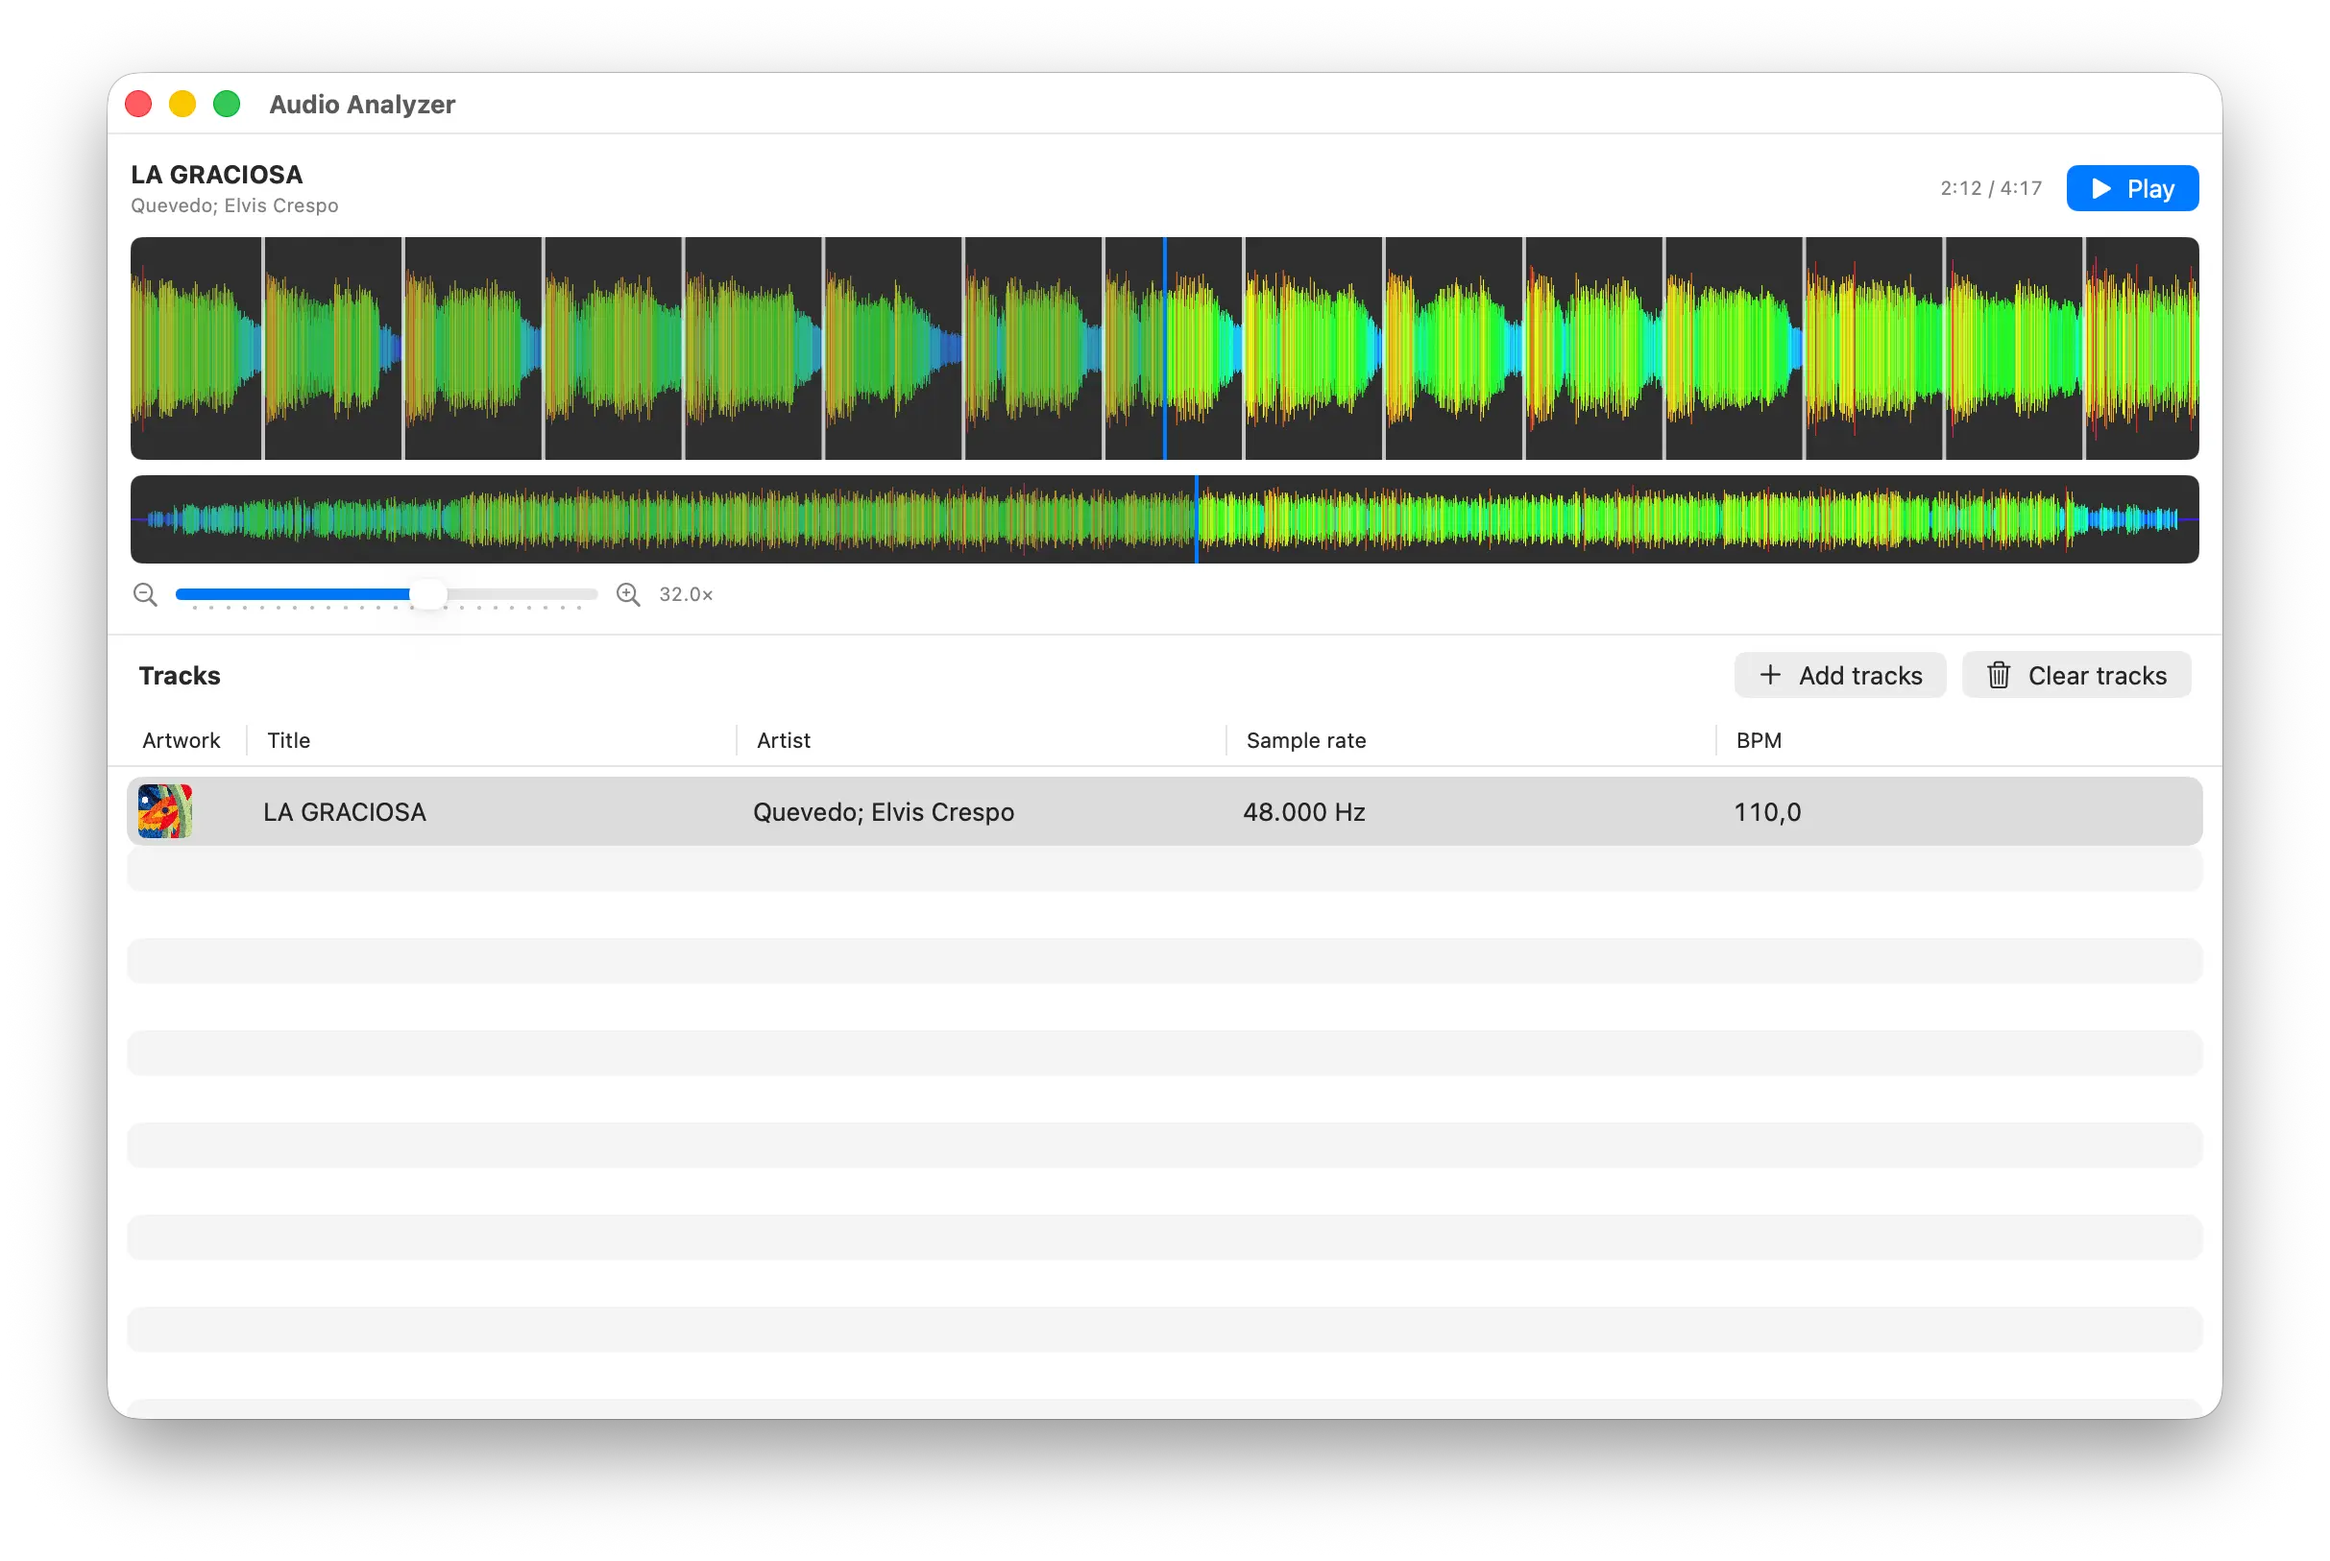
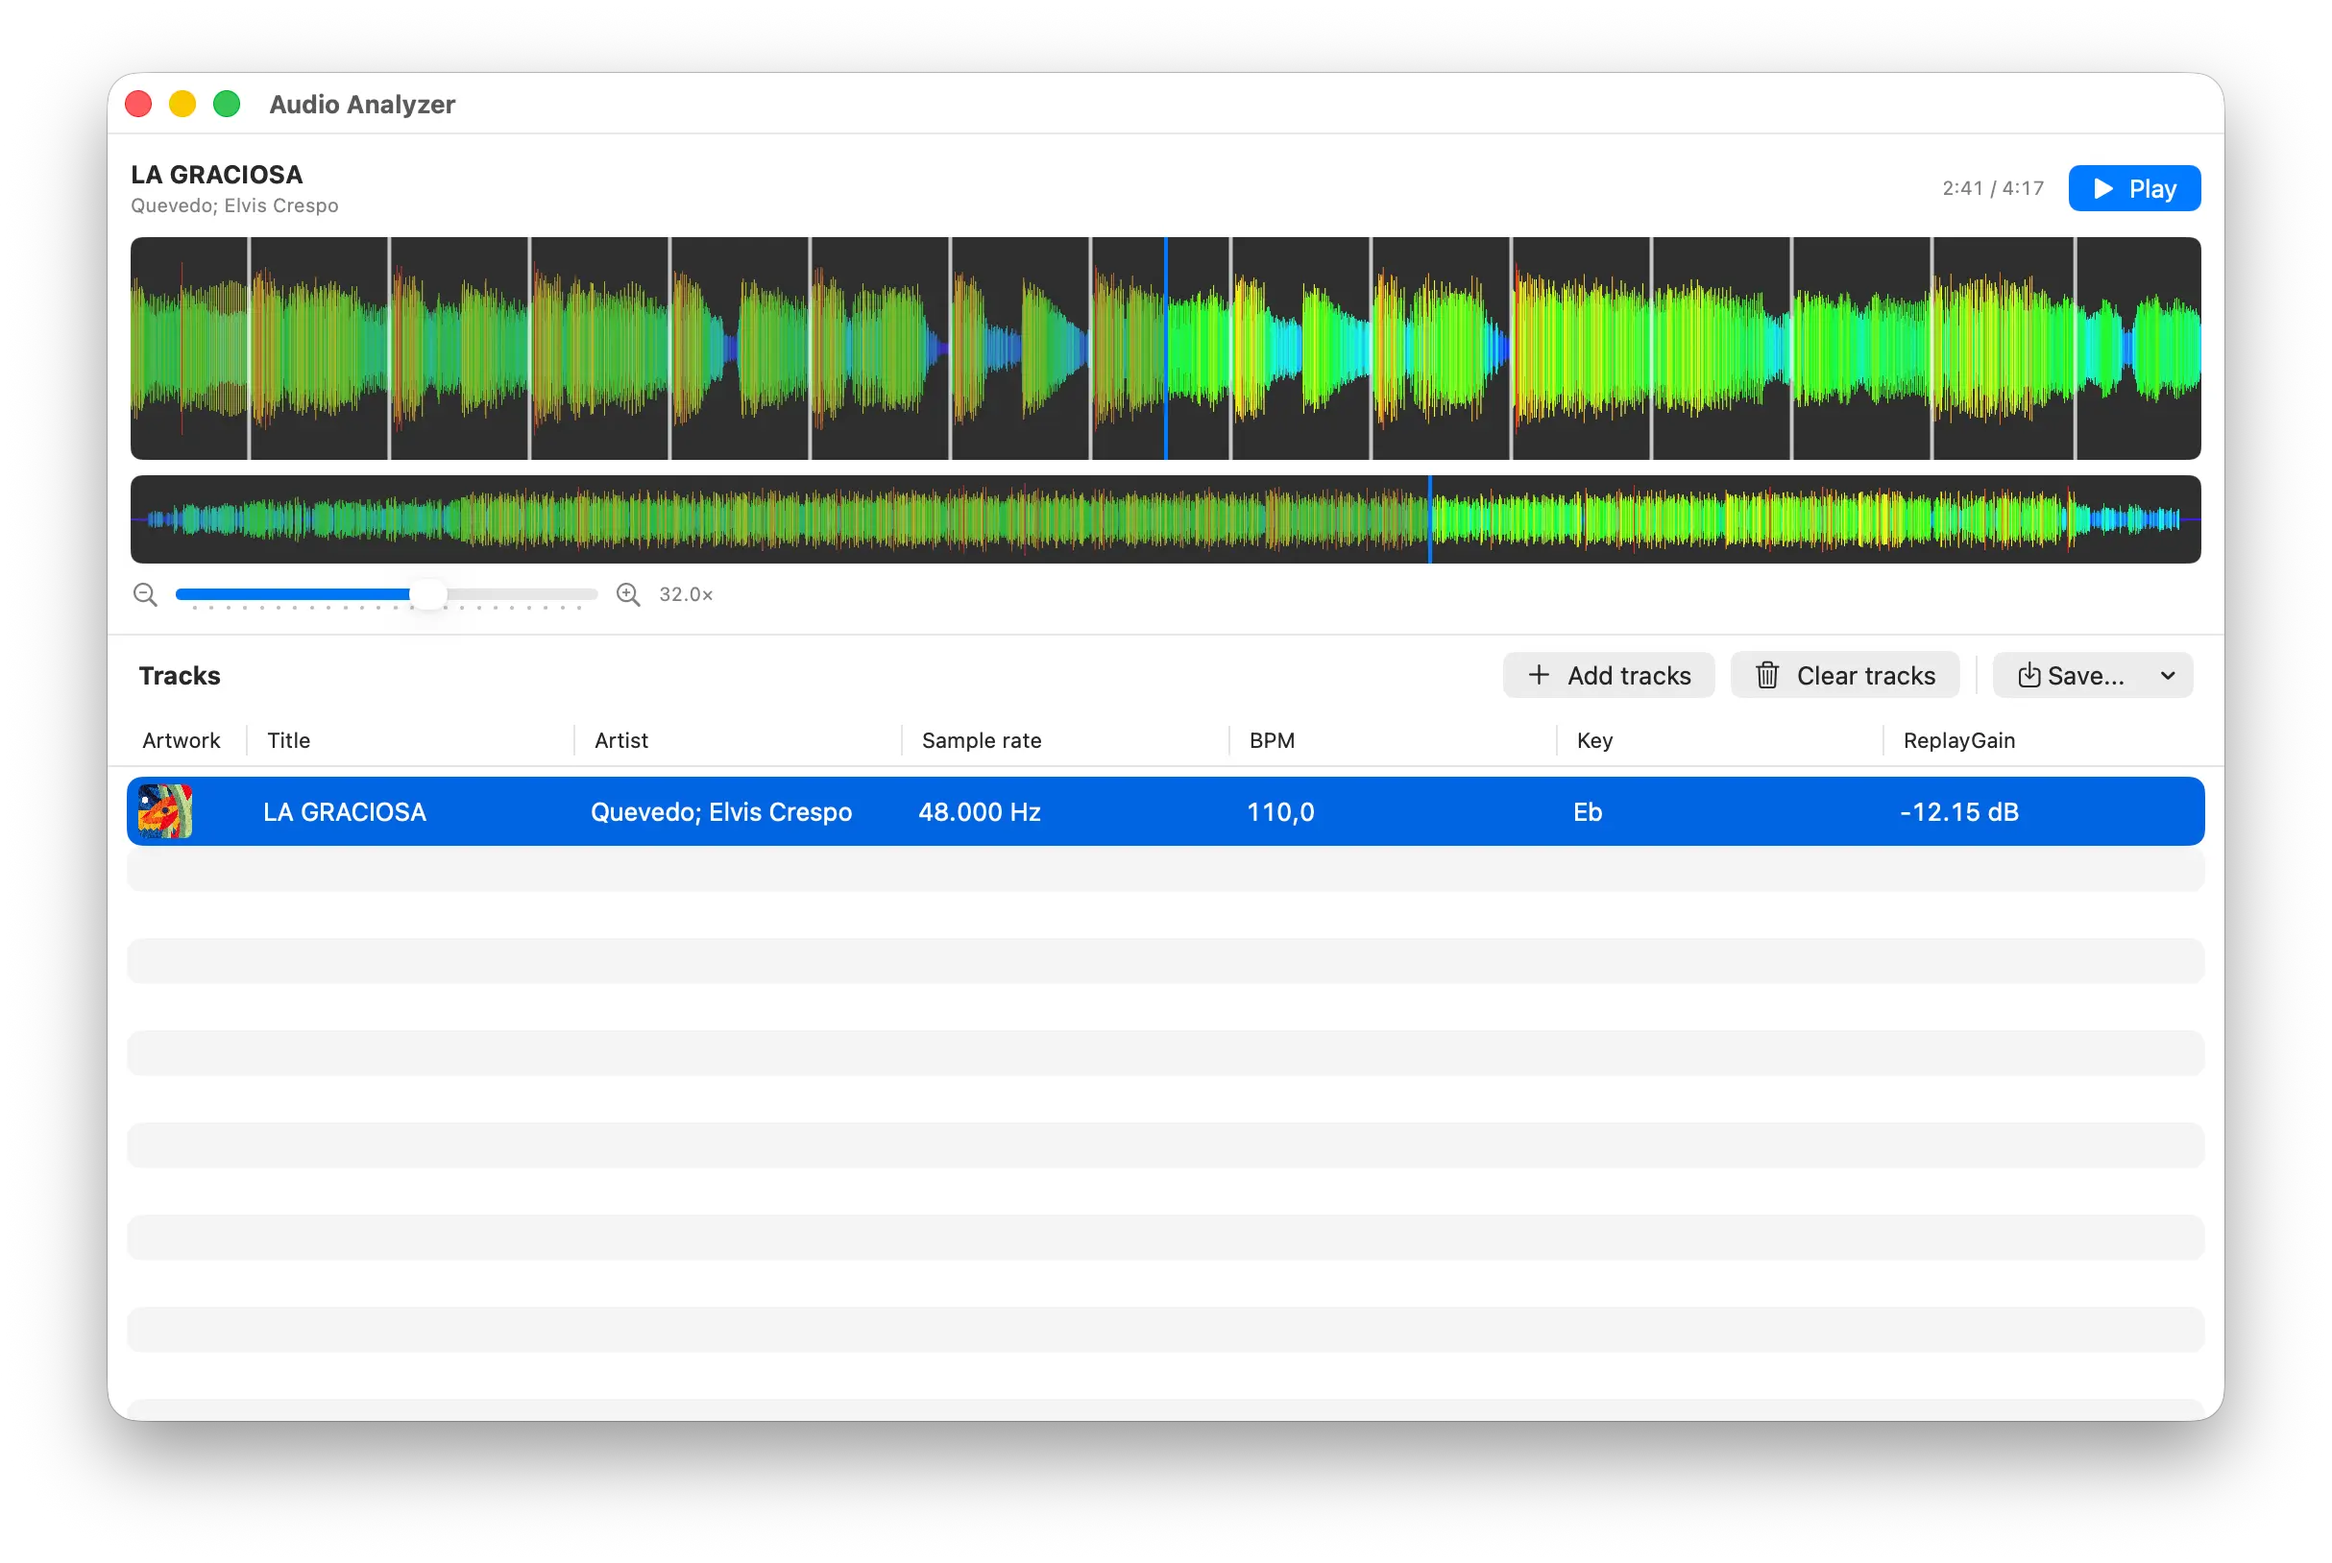
Updated readme and license

Changed region(s): [[0.0309, 0.1538, 0.9584, 0.369], [0.0309, 0.4305, 0.9584, 0.5535], [0.8656, 0.4305, 0.9275, 0.4613]]

diff --git a/Audio Analyzer/Services/Analysis/Core/ReplayGainAnalyzer.cpp b/Audio Analyzer/Services/Analysis/Core/ReplayGainAnalyzer.cpp
@@ -9,6 +9,7 @@ namespace {
 // ITU-R BS.1770 K-weighting: a high shelf (f0 = 1681.97 Hz) cascaded with a
 // high-pass (f0 = 38.13 Hz), combined here into a single 4th-order section so
 // the coefficients track any sample rate instead of the 48 kHz table values.
+// License preserved in LIBEBUR128-LICENSE.md (same directory).
 constexpr double kPreFilterF0 = 1681.974450955533;
 constexpr double kPreFilterG = 3.999843853973347;
 constexpr double kPreFilterQ = 0.7071752369554196;

diff --git a/Audio Analyzer/Services/Analysis/Core/LIBEBUR128-LICENSE.md b/Audio Analyzer/Services/Analysis/Core/LIBEBUR128-LICENSE.md
@@ -1,0 +1,39 @@
+# libebur128 license (ReplayGain analysis)
+
+`ReplayGainAnalyzer.h` / `ReplayGainAnalyzer.cpp` in this directory implement
+an ITU-R BS.1770 (EBU R128) integrated-loudness measurement for ReplayGain 2.0
+track gain. The K-weighting filter design and the gating procedure follow
+[libebur128](https://github.com/jiixyj/libebur128) by Jan Kokemüller. No
+libebur128 source code is vendored here; the design is reimplemented, but the
+MIT license below is preserved to cover the derivation, as the license
+requires for substantial portions.
+
+Behavioral reference (no code copied): [rsgain](https://github.com/complexlogic/rsgain)
+(BSD-2-Clause) for gain/clipping/tag conventions, the [ReplayGain 2.0
+specification](https://wiki.hydrogenaudio.org/index.php?title=Revised_ReplayGain_specification),
+and [ITU-R BS.1770](https://www.itu.int/rec/R-REC-BS.1770).
+
+The MIT license is GPL-compatible, so the project as a whole remains
+distributed under GPL-2.0-only (see the root `LICENSE.md`).
+
+## MIT license text (libebur128)
+
+Copyright (c) 2011 Jan Kokemüller
+
+Permission is hereby granted, free of charge, to any person obtaining a copy
+of this software and associated documentation files (the "Software"), to deal
+in the Software without restriction, including without limitation the rights
+to use, copy, modify, merge, publish, distribute, sublicense, and/or sell
+copies of the Software, and to permit persons to whom the Software is
+furnished to do so, subject to the following conditions:
+
+The above copyright notice and this permission notice shall be included in
+all copies or substantial portions of the Software.
+
+THE SOFTWARE IS PROVIDED "AS IS", WITHOUT WARRANTY OF ANY KIND, EXPRESS OR
+IMPLIED, INCLUDING BUT NOT LIMITED TO THE WARRANTIES OF MERCHANTABILITY,
+FITNESS FOR A PARTICULAR PURPOSE AND NONINFRINGEMENT. IN NO EVENT SHALL THE
+AUTHORS OR COPYRIGHT HOLDERS BE LIABLE FOR ANY CLAIM, DAMAGES OR OTHER
+LIABILITY, WHETHER IN AN ACTION OF CONTRACT, TORT OR OTHERWISE, ARISING FROM,
+OUT OF OR IN CONNECTION WITH THE SOFTWARE OR THE USE OR OTHER DEALINGS IN
+THE SOFTWARE.

diff --git a/LICENSE.md b/LICENSE.md
@@ -10,13 +10,17 @@ permissive license or GPLv3. Copyright notices and licenses for vendored files
 must be preserved.
 
 KissFFT is an independent third-party component: its files remain under their
-BSD-style license and are not relicensed under the GPL. The complete license
-texts are included with the source code:
+BSD-style license and are not relicensed under the GPL. The ReplayGain
+analysis (`ReplayGainAnalyzer`, ITU-R BS.1770) follows the design of
+libebur128, whose MIT license is GPL-compatible and likewise preserved. The
+complete license texts are included with the source code:
 
 - QM-DSP GPLv2:
   [`QM-DSP-COPYING.txt`](Audio%20Analyzer/Services/Analysis/Core/Vendor/qm-dsp/QM-DSP-COPYING.txt)
 - KissFFT BSD-style license:
   [`KissFFT-COPYING.txt`](Audio%20Analyzer/Services/Analysis/Core/Vendor/qm-dsp/ext/kissfft/KissFFT-COPYING.txt)
+- libebur128 MIT license (ReplayGain analysis):
+  [`LIBEBUR128-LICENSE.md`](Audio%20Analyzer/Services/Analysis/Core/LIBEBUR128-LICENSE.md)
 - Third-party notices and attribution:
   [`THIRD_PARTY_NOTICES.md`](Audio%20Analyzer/THIRD_PARTY_NOTICES.md)
 
@@ -43,3 +47,11 @@ In short, it permits redistribution of source and binary code, with or
 without modification, provided that its notices, conditions, and disclaimer
 are retained and its authors' names are not used for promotion without prior
 permission.
+
+## libebur128 MIT license
+
+The complete license applicable to the ReplayGain analysis design is included
+verbatim in
+[`LIBEBUR128-LICENSE.md`](Audio%20Analyzer/Services/Analysis/Core/LIBEBUR128-LICENSE.md).
+In short, it permits use, modification, and distribution, provided that its
+copyright and permission notices are retained.

diff --git a/Audio Analyzer/THIRD_PARTY_NOTICES.md b/Audio Analyzer/THIRD_PARTY_NOTICES.md
@@ -7,4 +7,19 @@ The required QM-DSP and KissFFT subset is vendored under `Services/Analysis/Core
 - [QM-DSP GPL notice](https://github.com/mixxxdj/mixxx/blob/main/lib/qm-dsp/COPYING)
 - [KissFFT license](https://github.com/mixxxdj/mixxx/blob/main/lib/qm-dsp/ext/kissfft/COPYING)
 
+## ReplayGain analysis
+
+`Services/Analysis/Core/ReplayGainAnalyzer` implements ITU-R BS.1770
+integrated loudness for ReplayGain 2.0 track gain. Its filter design and
+gating procedure follow [libebur128](https://github.com/jiixyj/libebur128) by
+Jan Kokemüller (MIT, GPL-compatible); no libebur128 source is vendored, but
+the license is preserved in
+[`Services/Analysis/Core/LIBEBUR128-LICENSE.md`](Services/Analysis/Core/LIBEBUR128-LICENSE.md).
+
+Behavioral references (no code copied):
+
+- [rsgain](https://github.com/complexlogic/rsgain) for gain, clipping-protection, and tag conventions
+- [ReplayGain 2.0 specification](https://wiki.hydrogenaudio.org/index.php?title=Revised_ReplayGain_specification) for tag names and value formats
+- [ITU-R BS.1770](https://www.itu.int/rec/R-REC-BS.1770) for the loudness algorithm
+
 Review the licensing obligations before distribution. In particular, confirm that the vendored upstream-derived source, modified files, copyright notices, and applicable license texts are distributed as required.

diff --git a/Audio Analyzer/Services/Analysis/README.md b/Audio Analyzer/Services/Analysis/README.md
@@ -7,8 +7,10 @@ fileImporter
   → TrackAnalysisService (OperationQueue: max(1, CPU/2))
   → AudioFileDecoder (4096-frame blocks, source sample rate preserved)
   → MixxxBPMAnalyzerBridge
-  → MixxxBpmAnalyzer + MixxxKeyAnalyzer
-  → BPMAnalysisResult + KeyAnalysisResult
+  → MixxxBpmAnalyzer + MixxxKeyAnalyzer + ReplayGainAnalyzer
+  → BPMAnalysisResult + KeyAnalysisResult + ReplayGainResult
 ```
 
 The core uses the upstream [Mixxx](https://github.com/mixxxdj/mixxx) `qm-tempotracker:0` path with `fixedTempo=true` and `fastAnalysis=false`, plus the default `qm-keydetector:2` path. Both analyzers consume the same decoded PCM blocks. It does not reuse previous analysis, write tags, or modify the source file.
+
+ReplayGain track gain is measured in the same pass by `ReplayGainAnalyzer`, an ITU-R BS.1770 integrated-loudness implementation whose filter design follows [libebur128](https://github.com/jiixyj/libebur128) (MIT, see `Core/LIBEBUR128-LICENSE.md`).

diff --git a/README.md b/README.md
@@ -2,7 +2,8 @@
   <h1>Audio Analyzer</h1>
   <p>
     Audio Analyzer is a macOS application that calculates the BPM and musical key
-    of your audio files and lets you review the result on their waveform.
+    of your audio files and lets you review the result on their waveform. Is built using 
+    Swift and Apple's official frameworks, no web technologies are used.
   </p>
   <img src="./ReadmeAssets/screenshot.webp" alt="App screenshot" width="500" />
 </div>
